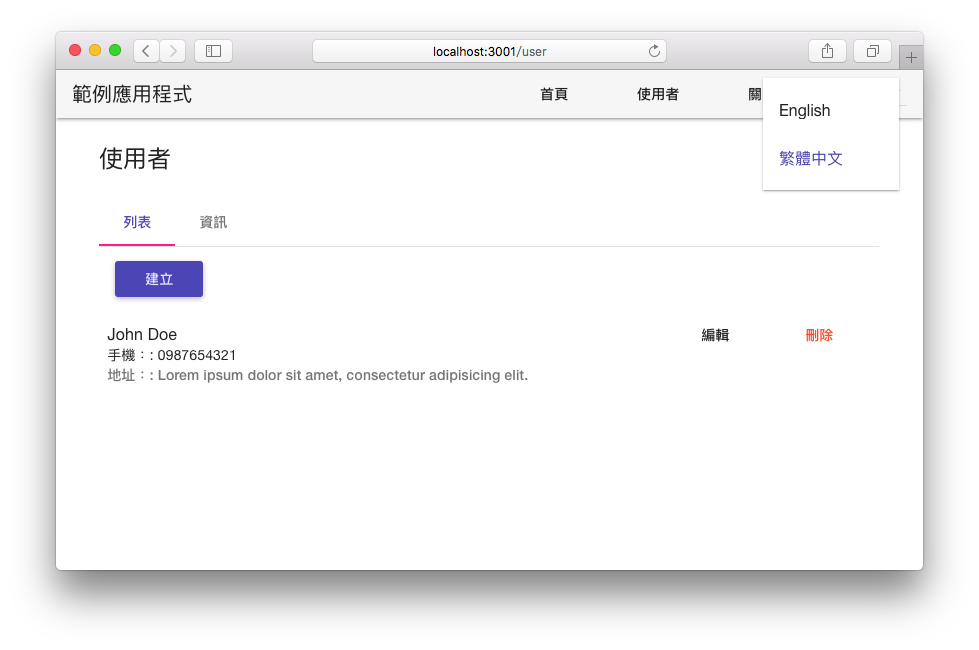
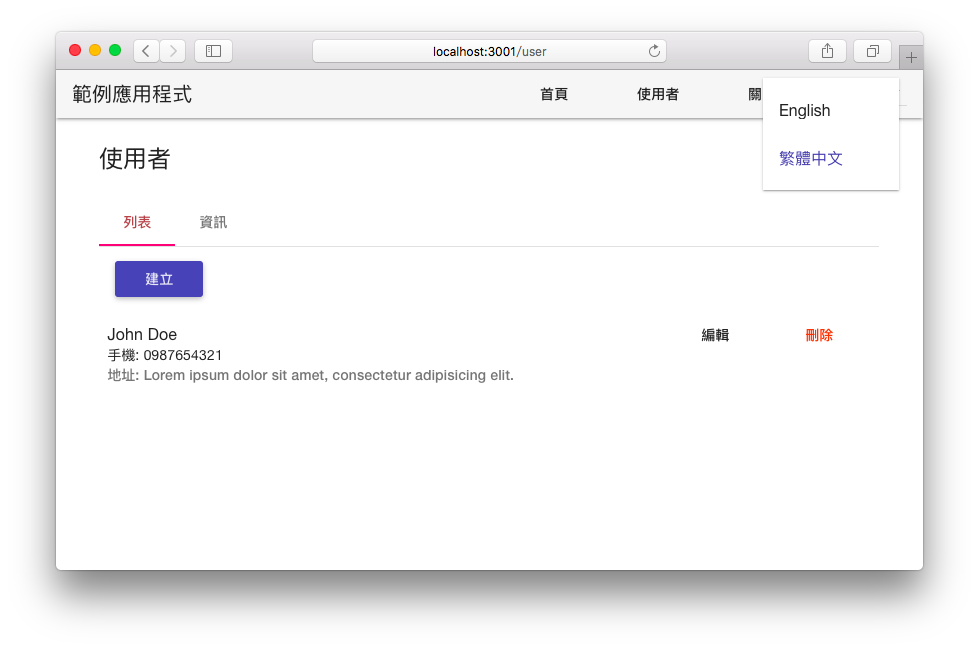
fix bug of tw translation

diff --git a/src/translations/tw.js b/src/translations/tw.js
@@ -10,8 +10,8 @@ const tw = {
   },
   USER: {
     NAME: '姓名',
-    PHONE: '手機：',
-    ADDRESS: '地址：',
+    PHONE: '手機',
+    ADDRESS: '地址',
     LIST: '列表',
     CREATE: '建立',
     CREATE_USER: '建立使用者',
